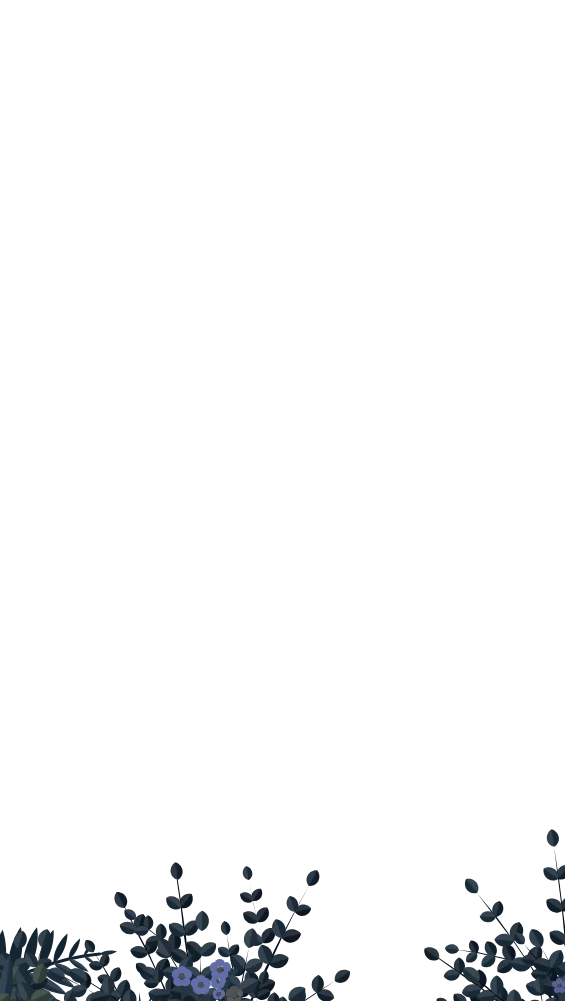
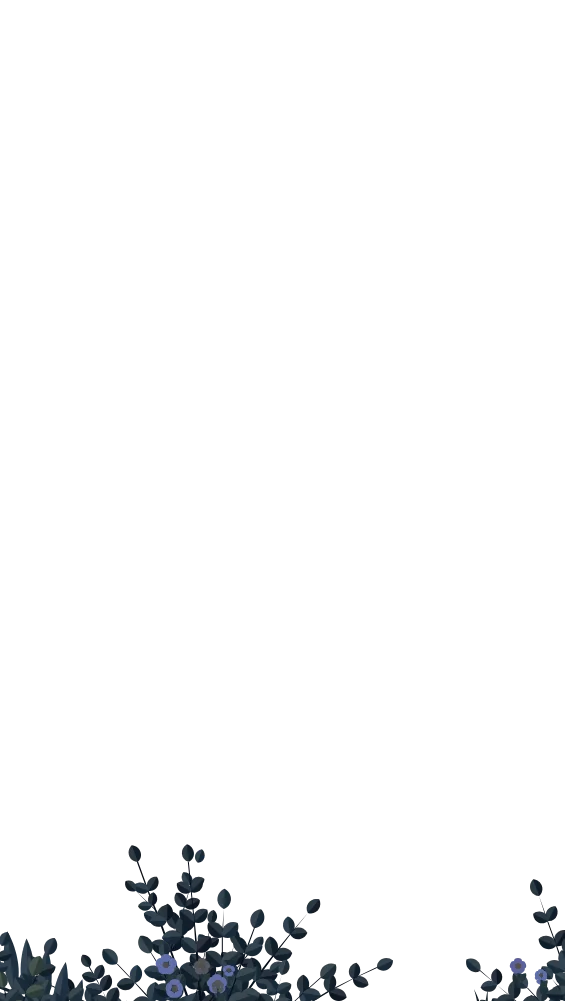
木漏れ日の間：画面についてくる両脇の幹をやめる
Claude-Session: https://claude.ai/code/session_01EHtmNVvLo6L45VFzzqfGpi

Changed region(s): [[0.0, 0.8362, 0.692, 1.0], [0.7522, 0.8052, 1.0, 1.0], [0.8124, 0.8671, 0.8425, 0.8981]]

diff --git a/assets/js/nature.js b/assets/js/nature.js
@@ -813,13 +813,16 @@ function forestFar(fw, horizon = 64) {
   return far;
 }
 // 森の額縁：上に梢、両脇に幹と茂みとシダ、上の角から垂れる枝、下に草
-function forestFrame(W, P, zones, { big = 1, split = false } = {}) {
+function forestFrame(W, P, zones, { big = 1, split = false, sides = true } = {}) {
   let s = '', g = '';
   const T = [P.deep, P.dark, P.mid, P.leaf];
   for (const side of [-1, 1]) {
     const ex = side < 0 ? 0 : W;
-    s += guard(zones, (k) => edgeTrunk(ex + side * R(0, 1.5), R(5.5, 7.5) * k * big, pick(['#4a3322', '#3f2c1d']), side * -R(0, 2)), { min: .55 });
-    s += guard(zones, (k) => sprig(ex - side * R(1, 3), R(30, 52), R(14, 19) * k * big, -side * R(40, 65), [P.dark, P.mid, P.leaf, P.fresh], { leaf: 4 * k * big, n: 6, stem: '#3a2a1a' }));
+    // 両脇の幹と、そこから伸びる枝（部屋の中では画面についてきて作品にかぶるので、部屋では置かない）
+    if (sides) {
+      s += guard(zones, (k) => edgeTrunk(ex + side * R(0, 1.5), R(5.5, 7.5) * k * big, pick(['#4a3322', '#3f2c1d']), side * -R(0, 2)), { min: .55 });
+      s += guard(zones, (k) => sprig(ex - side * R(1, 3), R(30, 52), R(14, 19) * k * big, -side * R(40, 65), [P.dark, P.mid, P.leaf, P.fresh], { leaf: 4 * k * big, n: 6, stem: '#3a2a1a' }));
+    }
     s += guard(zones, (k) => sprig(ex - side * R(2, 12), -5, R(26, 36) * k * big, 180 + side * R(8, 28), [P.dark, P.mid, P.leaf, P.fresh], { leaf: 4.2 * k * big, cls: 'hang', stem: '#2d3a22' }));
     s += guard(zones, (k) => sprig(ex - side * R(10, 22), -5, R(18, 26) * k * big, 180 + side * R(5, 20), [P.mid, P.leaf, P.fresh, P.lime], { leaf: 3.2 * k * big, cls: 'hang', stem: '#2d3a22' }));
     g += guard(zones, (k) => shrub(ex - side * R(4, 10), 107, R(30, 38) * k * big, T, { leaf: 3.8 * k * big }));
@@ -936,7 +939,7 @@ export function sceneForest(W, stops, { entrance = false, birdGap = -1 } = {}) {
     move += guard(Z, (k) => fern(x + R(-14, 14), 110, R(28, 36) * k, R(-30, 30), P.dark, { cls: '' }));
     move += guard(Z, (k) => sprig(x + R(-10, 10), -6, R(28, 36) * k, 180 + R(-20, 20), [P.deep, P.dark, P.mid, P.leaf], { leaf: 5 * k, cls: 'hang', stem: '#233a26' }));
   }
-  const [frame, ground] = forestFrame(W, P, [artZone(W, W / 2, 4, 82)], { split: true });
+  const [frame, ground] = forestFrame(W, P, [artZone(W, W / 2, 4, 82)], { split: true, sides: false });
   move += tileGround(W, stops, ground);
   return {
     sky: 'linear-gradient(#eef1d6 0%, #f3e8c6 52%, #dfe6b5 100%)',
